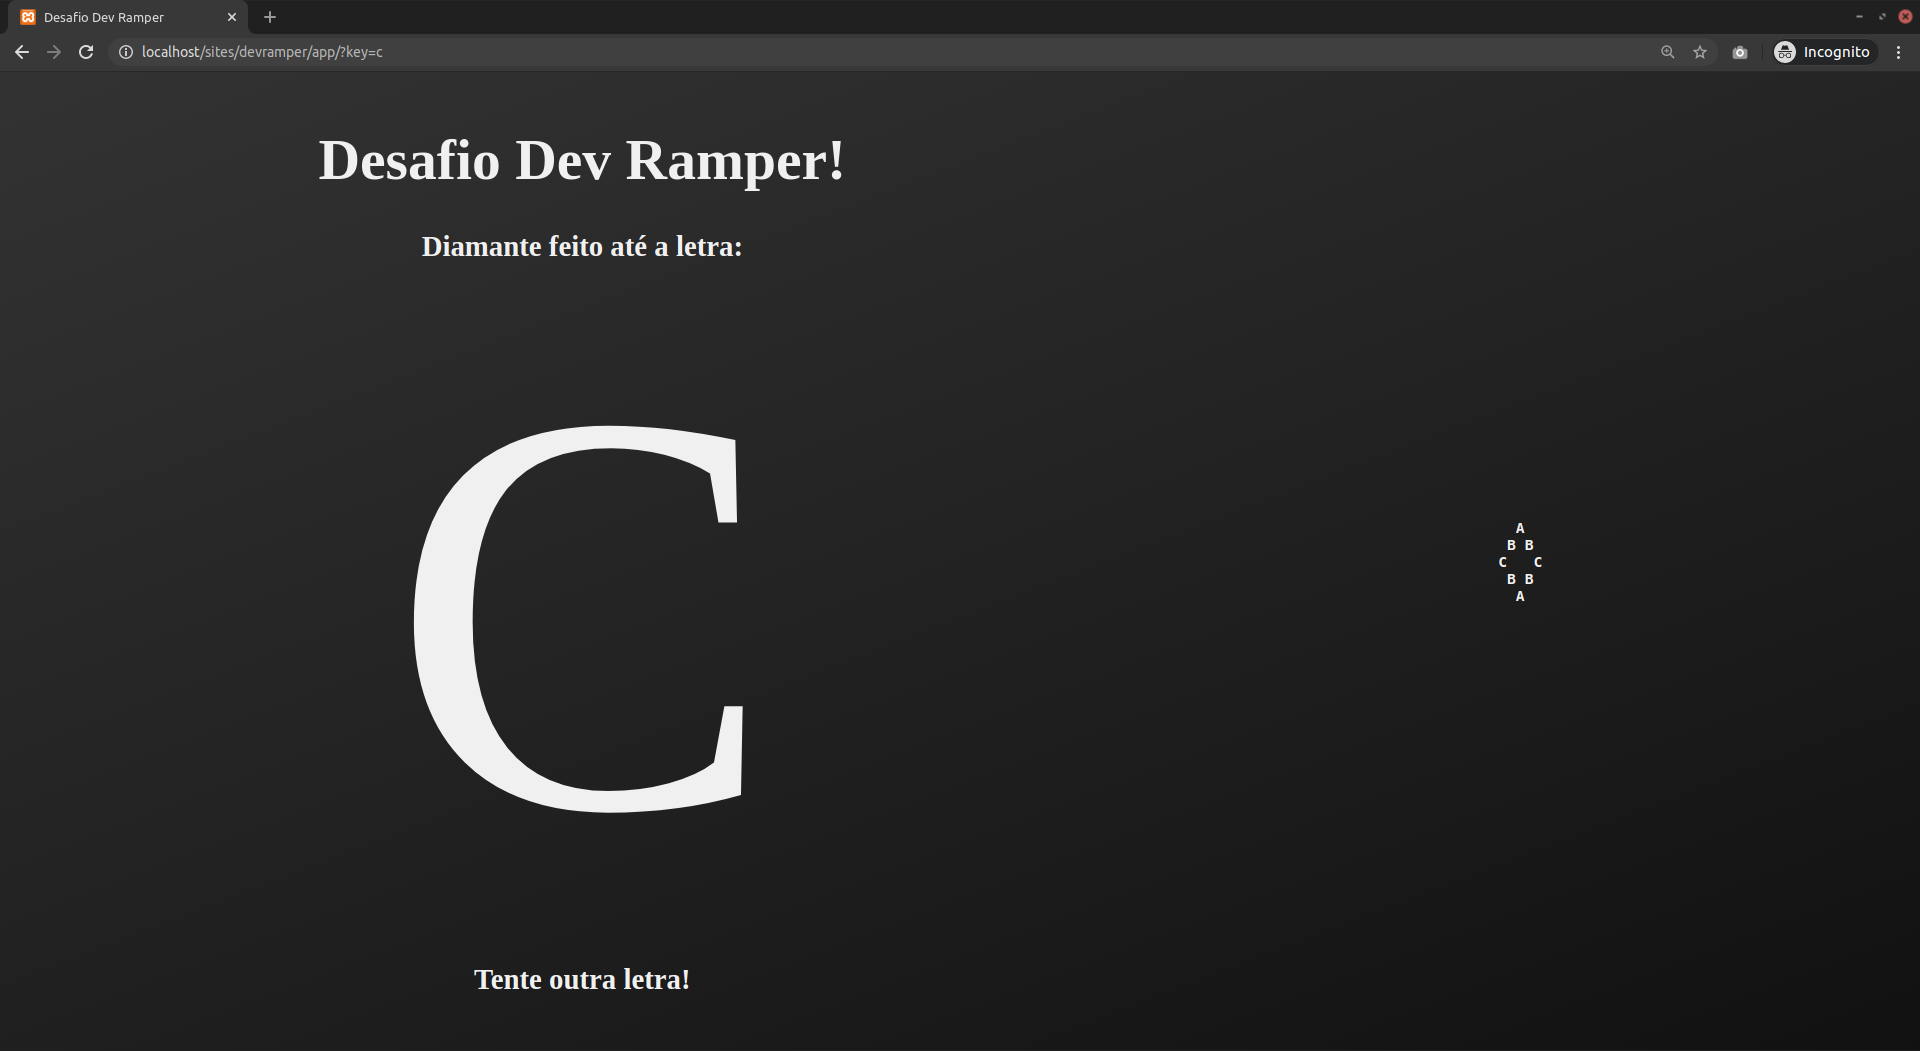
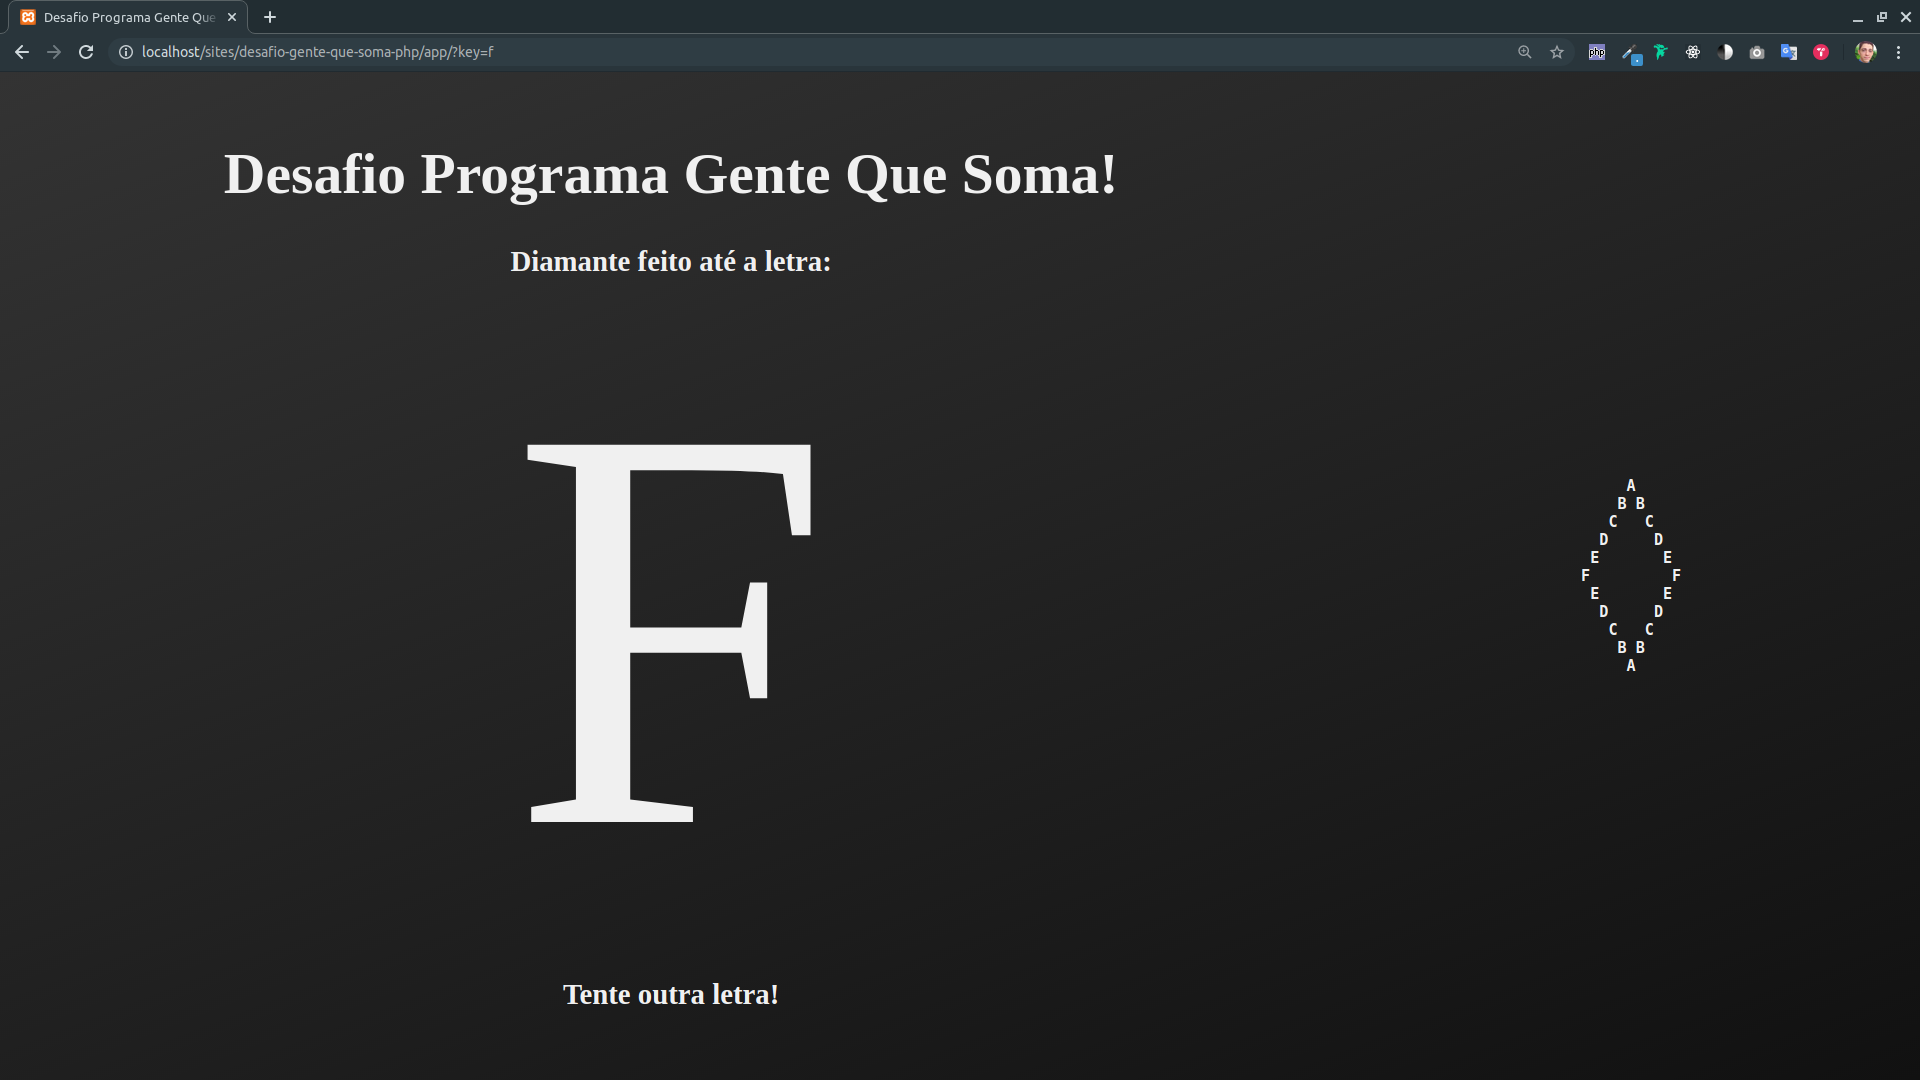
change challange name

diff --git a/index.html b/index.html
@@ -4,11 +4,11 @@
     <meta charset="UTF-8" />
     <meta name="viewport" content="width=device-width, initial-scale=1.0" />
     <link rel="stylesheet" href="./style.css" />
-    <title>Desafio Dev Ramper</title>
+    <title>Desafio Programa Gente Que Soma</title>
   </head>
   <body>
     <div id="container">
-      <h1 id="text">Bem vindo ao Desafio Dev Ramper</h1>
+      <h1 id="text">Bem vindo ao desafio do Programa Gente Que Soma</h1>
     </div>
     <script src="main.js"></script>
   </body>

diff --git a/app/index.php b/app/index.php
@@ -3,14 +3,14 @@
   <head>
     <meta charset="UTF-8" />
     <meta name="viewport" content="width=device-width, initial-scale=1.0" />
-    <title>Desafio Dev Ramper</title>
+    <title>Desafio Programa Gente Que Soma</title>
     <link rel="stylesheet" href="./style.css" />
   </head>
   <body>
     <div id="container">
       <!-- LEFT SIDE -->
       <section id="input">
-        <h1 id="title">Desafio Dev Ramper!</h1>
+        <h1 id="title">Desafio Programa Gente Que Soma!</h1>
         <h1 id="letter2">Aperte em qualquer letra</h1>
         <p id="letter1"> </p>
         <h1 id="letter3"></h1>

diff --git a/README.md b/README.md
@@ -1,12 +1,17 @@
-# Desafio Dev Ramper
+# Desafio Gente que Soma 1ª Edição
 
-O desafio tem como objetivo analisar a lógica utilizada na resolução do problema. A forma de organização e representação das informações ficam a cargo do participante, entretanto é necessário criar uma interface para que o usuário interaja com o desafio. Vale ressaltar que não serão permitidas cópias retiradas da internet, que consequentemente acarretará na desclassificação do candidato.
+Chegou a hora do desafio! Esta é uma etapa muito importante para a sua seleção na 1ª edição do Programa Gente Que Soma.
+
+## Sobre o desafio
+
+Vamos analisar a estratégia utilizada por você para resolvê-lo, bem como a forma de organização e representação. As informações no código-fonte ficam sob sua responsabilidade.
 
 Abaixo são listadas as linguagens permitidas para este desafio:
 
 - C#
 - Java
 - PHP
+- Javascript e derivados
 
 ## O Problema
 
@@ -92,11 +97,11 @@ Ao entrar:
 
 ![print1](screenshots/print1.png)
 
-Ao pressionar a tecla "C":
+Ao pressionar a tecla "F":
 
 ![print2](screenshots/print2.png)
 
-Ao pressionar a tecla "H":
+Ao pressionar a tecla "M":
 
 ![print3](screenshots/print3.png)
 
